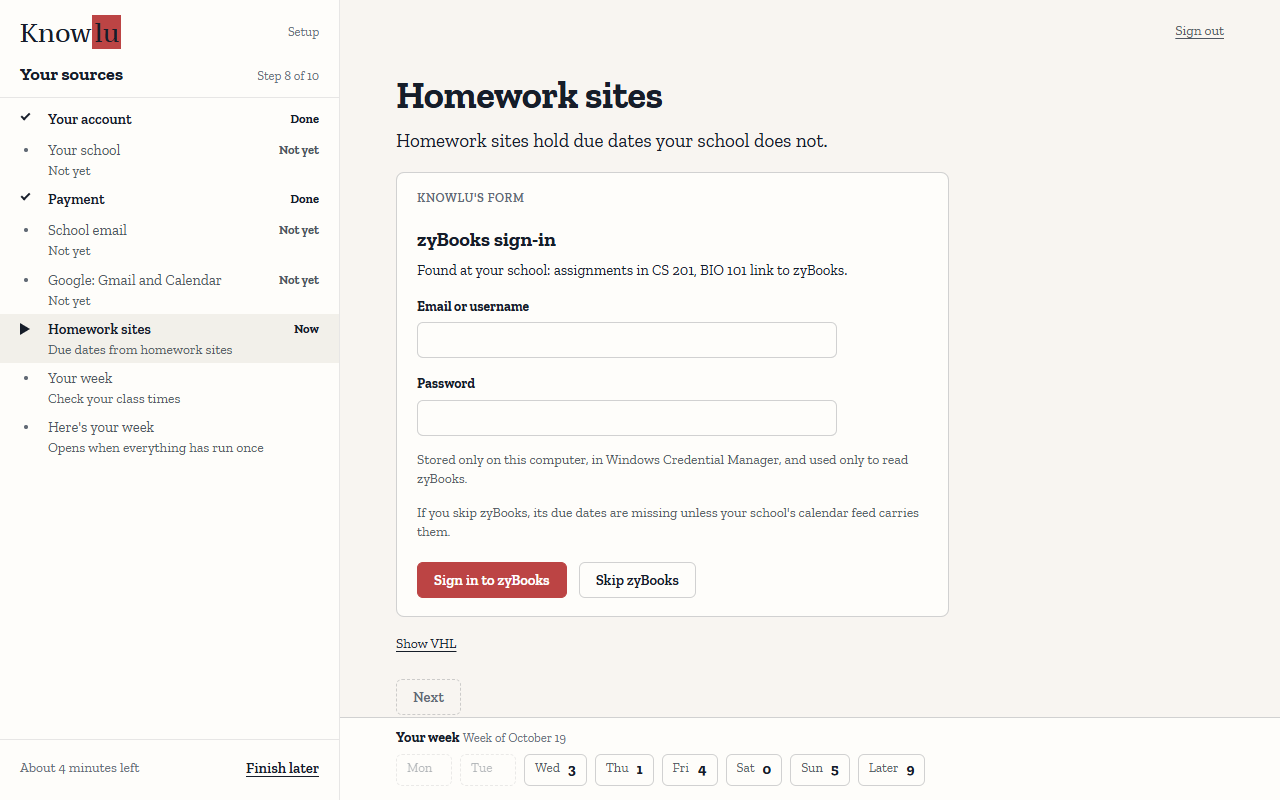
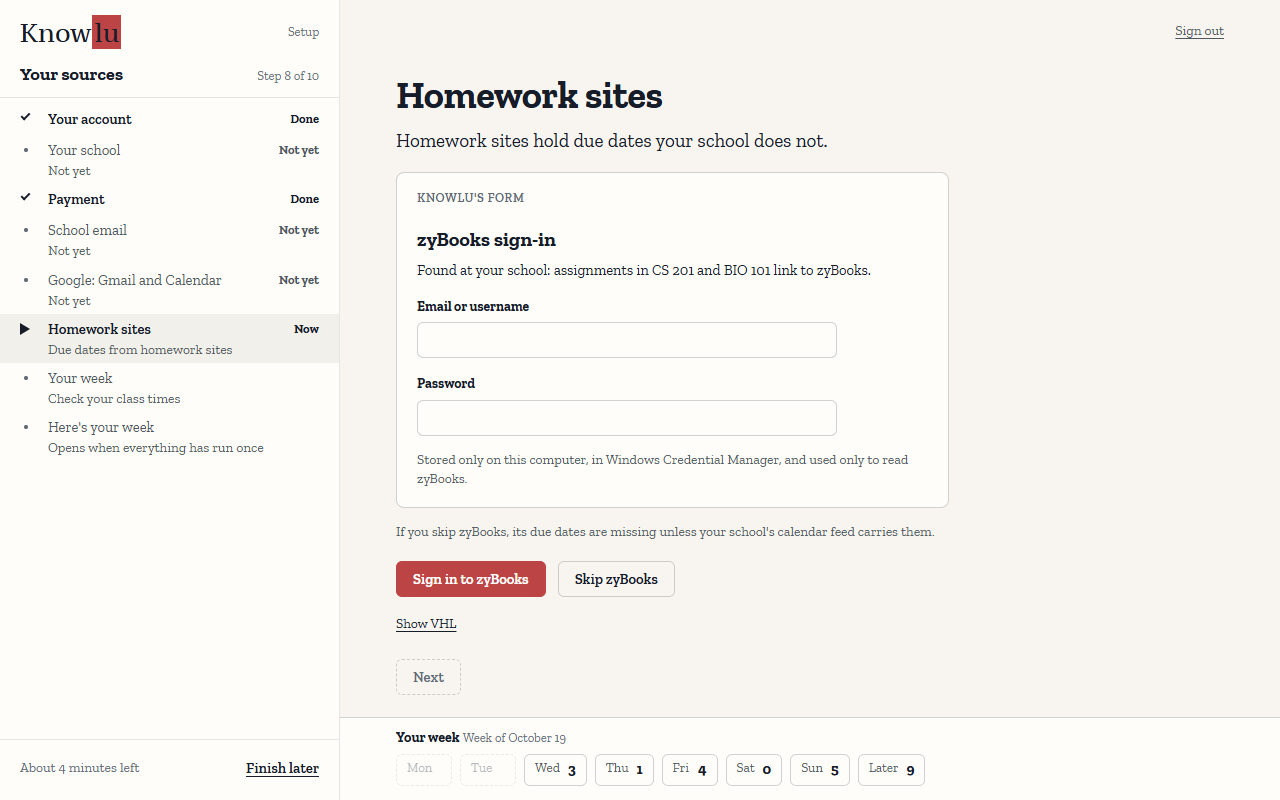
fix(o3 F11p2): Found line joins codes with and; focus follows Show and advance; the strip is a named region; the form frame ends at the privacy line; login labels named (review)
Claude-Session: https://claude.ai/code/session_01EtveU7wxFVygY3Msga61qk

Changed region(s): [[0.3125, 0.625, 0.7188, 0.8125], [0.5312, 0.3125, 0.6875, 0.3438], [0.3125, 0.8438, 0.3438, 0.875]]

diff --git a/app/static/onboarding.js b/app/static/onboarding.js
@@ -278,7 +278,7 @@
       '<p class="ob-closing" id="ob-closing" role="status" hidden></p>' +
       '<section class="su-step ob-step" id="ob-pane" aria-labelledby="ob-title"><h1 id="ob-title" tabindex="-1"></h1>' +
       '<p class="su-why" id="ob-why"></p><div id="ob-ask"></div><div class="ob-proof" id="ob-proof"></div></section>' +
-      '<div class="ob-week" id="ob-week" aria-label="Your week" hidden></div></div>';
+      '<div class="ob-week" id="ob-week" role="region" aria-label="Your week" hidden></div></div>';
   }
 
   // The step's state block, by section 4.1's seven states. A step's own markup comes from its panel.
@@ -386,10 +386,14 @@
     return SITES.filter(function (s) { return hasEntry(status, s); }).concat(SITES.filter(function (s) { return !hasEntry(status, s); }));
   }
   // The word `unmatched` is the engine's, never the student's: it is left out of the codes.
+  // One code alone; two "A and B"; three or more "A, B and C" (no serial comma).
+  function joinCodes(codes) {
+    return codes.length < 2 ? codes.join("") : codes.slice(0, -1).join(", ") + " and " + codes[codes.length - 1];
+  }
   function foundLine(status, site) {
     if (!hasEntry(status, site)) { return ""; }
     var codes = status.homework_sites[site].filter(function (c) { return String(c).toLowerCase() !== "unmatched"; });
-    return "Found at your school: " + (codes.length ? "assignments in " + codes.join(", ") : "some assignments at your school") + " link to " + SITE_NAMES[site] + ".";
+    return "Found at your school: " + (codes.length ? "assignments in " + joinCodes(codes) : "some assignments at your school") + " link to " + SITE_NAMES[site] + ".";
   }
   OB.siteOrder = siteOrder; OB.foundLine = foundLine;
 
@@ -399,12 +403,13 @@
     if (u) { u.value = ""; }
     if (p) { p.value = ""; }
   }
+  // The frame closes after the stored-only line; the skip consequence and the buttons sit outside it.
   function loginHtml(site) {
     var z = site === "zybooks", name = SITE_NAMES[site];
     var user = z ? '<input id="ob-zybooks-username" type="text" autocomplete="off" spellcheck="false">' : '<input id="ob-vhl-username" type="text" autocomplete="off" spellcheck="false">';
     var pass = z ? '<input id="ob-zybooks-password" type="password" autocomplete="off">' : '<input id="ob-vhl-password" type="password" autocomplete="off">';
-    return '<div class="su-field"><label>Email or username</label>' + user + '</div><div class="su-field"><label>Password</label>' + pass + '</div>' +
-      '<p class="su-privacy">Stored only on this computer, in Windows Credential Manager, and used only to read ' + esc(name) + '.</p>' +
+    return '<div class="su-field"><label for="ob-' + site + '-username">Email or username</label>' + user + '</div><div class="su-field"><label for="ob-' + site + '-password">Password</label>' + pass + '</div>' +
+      '<p class="su-privacy">Stored only on this computer, in Windows Credential Manager, and used only to read ' + esc(name) + '.</p></div>' +
       '<p class="su-small">If you skip ' + esc(name) + ", its due dates are missing unless your school's calendar feed carries them.</p>" +
       '<div class="su-actions"><button class="b pri y su-btn" type="button" data-act8="signin" data-site="' + site + '"' + (discovering ? " disabled" : "") + '>Sign in to ' + esc(name) + '</button>' +
       '<button class="b su-btn" type="button" id="' + SKIP_ID[site] + '" data-act8="skip" data-site="' + site + '"' + (discovering ? " disabled" : "") + '>Skip ' + esc(name) + '</button></div>';
@@ -422,17 +427,17 @@
   }
   function siteHtml(site) {
     var f = w8.site[site], name = SITE_NAMES[site], note = '<p class="ob-state ob-failed" role="alert" id="ob-8-note-' + site + '"' + (f.line ? "" : " hidden") + '>' + esc(f.line) + '</p>';
-    if (f.stage === "skipped") { return '<h2 class="ob-h2">' + esc(name) + '</h2><p class="ob-state" data-state="skipped">' + esc(costWords(HOMEWORK_COST + site)) + '</p>'; }
-    if (f.stage === "done") { return '<h2 class="ob-h2">' + esc(name) + '</h2><p class="ob-state">' + esc(name) + ' is set up.</p>'; }
-    if (f.stage === "storing" || f.stage === "reading") { return '<h2 class="ob-h2">' + esc(name) + '</h2><p class="ob-state" data-state="reading">Reading ' + esc(name) + '… This can take a minute.</p>'; }
+    if (f.stage === "skipped") { return '<h2 class="ob-h2" tabindex="-1">' + esc(name) + '</h2><p class="ob-state" data-state="skipped">' + esc(costWords(HOMEWORK_COST + site)) + '</p>'; }
+    if (f.stage === "done") { return '<h2 class="ob-h2" tabindex="-1">' + esc(name) + '</h2><p class="ob-state">' + esc(name) + ' is set up.</p>'; }
+    if (f.stage === "storing" || f.stage === "reading") { return '<h2 class="ob-h2" tabindex="-1">' + esc(name) + '</h2><p class="ob-state" data-state="reading">Reading ' + esc(name) + '… This can take a minute.</p>'; }
     if (f.stage === "rows") {
-      return '<h2 class="ob-h2">' + esc(name) + '</h2><p class="su-small">Choose the class each one belongs to. Leave one blank and Knowlu asks again later.</p>' + note +
+      return '<h2 class="ob-h2" tabindex="-1">' + esc(name) + '</h2><p class="su-small">Choose the class each one belongs to. Leave one blank and Knowlu asks again later.</p>' + note +
         f.rows.map(function (x) { return rowHtml(site, x); }).join("") +
         '<div class="su-actions"><button class="b su-btn" type="button" data-act8="done" data-site="' + site + '">That\'s all for ' + esc(name) + '</button></div>';
     }
     var found = foundLine(w8.status, site);
-    return '<div class="ob-form"><p class="ob-form-tag">Knowlu\'s form</p><h2 class="ob-h2">' + esc(name) + ' sign-in</h2>' +
-      (found ? '<p class="ob-found">' + esc(found) + '</p>' : "") + note + loginHtml(site) + '</div>';
+    return '<div class="ob-form"><p class="ob-form-tag">Knowlu\'s form</p><h2 class="ob-h2" tabindex="-1">' + esc(name) + ' sign-in</h2>' +
+      (found ? '<p class="ob-found">' + esc(found) + '</p>' : "") + note + loginHtml(site);
   }
   function say8(site, text) {
     var el = EL("ob-8-note-" + site);
@@ -453,11 +458,16 @@
       }).join(" ");
     }
   }
+  // A student action moved the form: the pressed button is gone, so the current site's heading takes focus.
+  function focusSite8() {
+    var host = EL("ob-8-" + w8.cur), h = host && host.querySelector("h2");
+    if (h) { h.focus(); }
+  }
   function advance8(site) {
     if (w8.cur !== site) { return; }
     var next = siteOrder(w8.status).filter(function (s) { return !settled8(s); })[0];
     if (next) { w8.cur = next; }
-    paintView8();
+    paintView8(); focusSite8();
   }
   function paintNext() {
     var next = EL("ob-next-8");
@@ -535,7 +545,7 @@
     if (act === "signin") { storeLogins(site); }
     else if (act === "skip") { skipSite(site); }
     else if (act === "done") { w8.site[site].stage = "done"; paintSite(site); paintNext(); advance8(site); }
-    else if (act === "show") { w8.cur = site; paintView8(); }
+    else if (act === "show") { w8.cur = site; paintView8(); focusSite8(); }
     else if (act === "next") { leaveStep8(); }
     else if (act === "confirm" || act === "ignore") { answerRow(b); }
   }

diff --git a/app/tests/onboarding_static.rs b/app/tests/onboarding_static.rs
@@ -1391,3 +1391,43 @@ fn step_eight_sits_in_knowlus_own_frame_with_the_stored_only_here_line() {
     let css = code(&read("onboarding.css"));
     assert!(css.contains("ob-form"), "the frame has a style");
 }
+
+#[test]
+fn the_found_line_joins_codes_with_and_and_no_serial_comma() {
+    helper("foundLine");
+    let line = |m: &str| node(&format!("h.foundLine({}, \"zybooks\")", sites(m))).as_str().unwrap_or("?").to_string();
+    assert_eq!(line(r#"{zybooks: ["CS 201"]}"#), "Found at your school: assignments in CS 201 link to zyBooks.");
+    assert_eq!(line(r#"{zybooks: ["CS 201", "BIO 101"]}"#), "Found at your school: assignments in CS 201 and BIO 101 link to zyBooks.");
+    assert_eq!(line(r#"{zybooks: ["CS 201", "BIO 101", "MAT 150"]}"#), "Found at your school: assignments in CS 201, BIO 101 and MAT 150 link to zyBooks.");
+}
+
+#[test]
+fn focus_follows_show_and_advance_onto_the_current_sites_heading() {
+    let c = code(&read("onboarding.js"));
+    let site = function(&c, "siteHtml");
+    assert_eq!(site.matches("<h2 class=\"ob-h2\" tabindex=\"-1\">").count(), 5, "every stage's site heading takes focus: {site}");
+    assert!(!site.contains("<h2 class=\"ob-h2\">"), "no site heading without tabindex");
+    assert!(function(&c, "focusSite8").contains(".focus()"), "the heading is focused");
+    assert!(function(&c, "advance8").contains("focusSite8()"), "Skip, Done and advance focus it");
+    assert!(function(&c, "onClick8").contains("focusSite8()"), "Show focuses it");
+    assert!(!function(&c, "paintView8").contains("focus"), "a repaint alone moves no focus");
+}
+
+#[test]
+fn the_week_strip_is_a_named_region_and_the_login_labels_name_their_inputs() {
+    let c = code(&read("onboarding.js"));
+    assert!(c.contains("role=\"region\" aria-label=\"Your week\""), "the strip is a named region");
+    let login = function(&c, "loginHtml");
+    for s in ["username", "password"] {
+        assert!(login.contains(&format!("for=\"ob-' + site + '-{s}\"")), "label for the {s} input: {login}");
+    }
+}
+
+#[test]
+fn the_form_frame_closes_after_the_stored_only_line() {
+    let c = code(&read("onboarding.js"));
+    let login = function(&c, "loginHtml");
+    let (privacy, close, skip, btn) = (login.find("Stored only on this computer").unwrap(), login.find("</p></div>").expect("frame closes"), login.find("If you skip").unwrap(), login.find("su-actions").unwrap());
+    assert!(privacy < close && close < skip && skip < btn, "frame ends after the privacy line, before the consequence and the buttons");
+    assert!(!function(&c, "siteHtml").contains("loginHtml(site) + '</div>'"), "siteHtml adds no closing div after the buttons");
+}

diff --git a/docs/reports/shots/F11p2/index.md b/docs/reports/shots/F11p2/index.md
@@ -26,5 +26,6 @@ and `{name}-{dark|light}-prototype.png`.
 - The label reads "Week of October 19" from `week.of`, in the strip's header.
 - Step 8 shows one site's form; the other is a "Show {site}" link under the frame. The prototype's
   "Knowlu's form" tag is built as a small caps label inside the frame.
+- The frame ends at the stored-only line; the "If you skip ..." line and the Sign in and Skip buttons sit outside it, as in the prototype. Two found codes read "CS 201 and BIO 101".
 - "unmatched" never appears; the unmatched-only site gets "some assignments at your school".
 - The prototype's syllabi sub-step and its rail sub-rows are not built.
